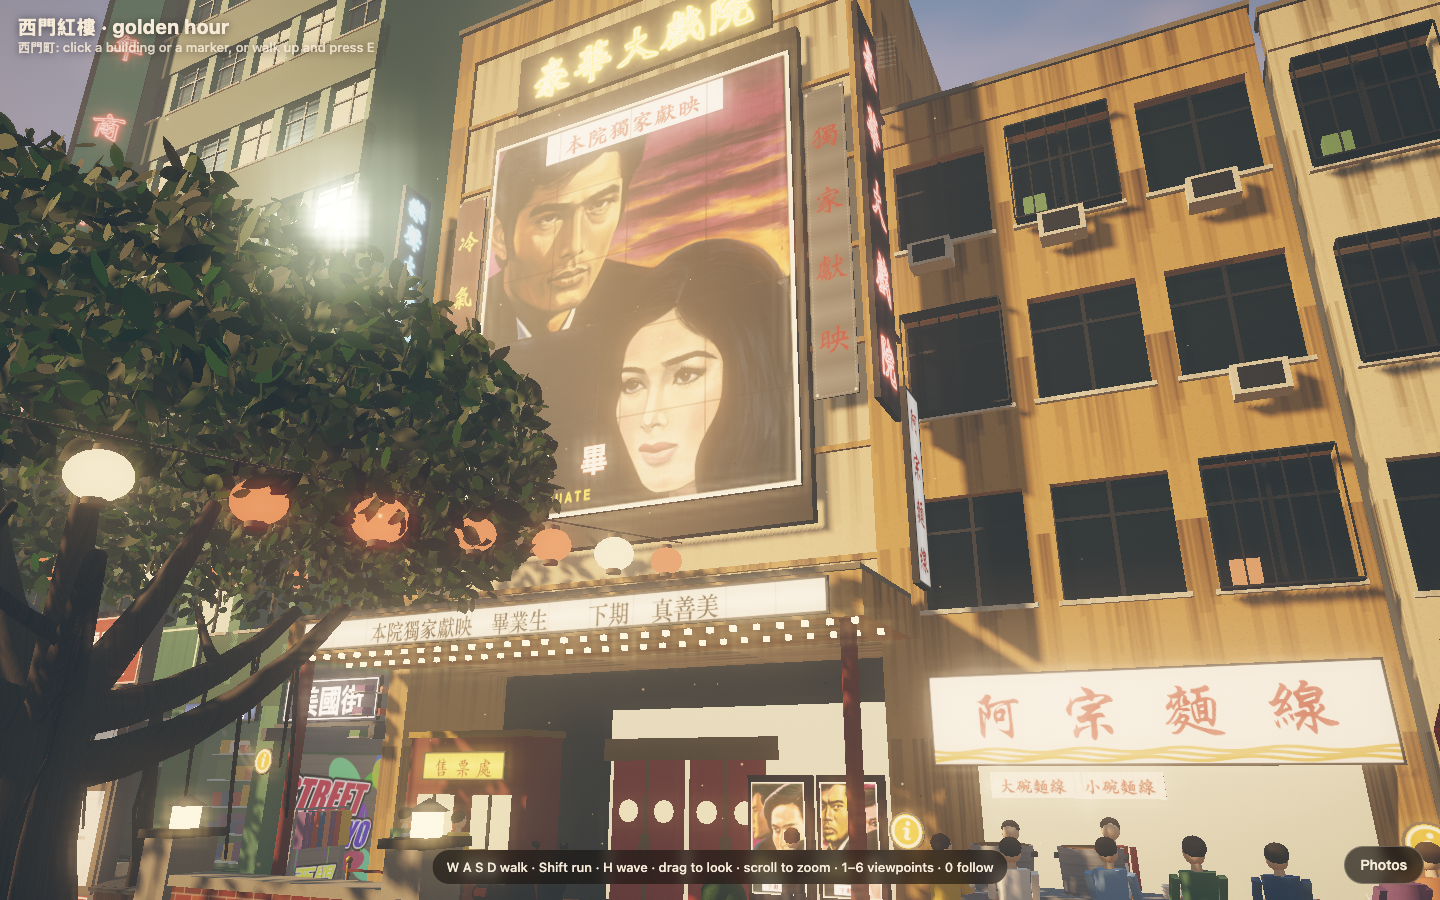
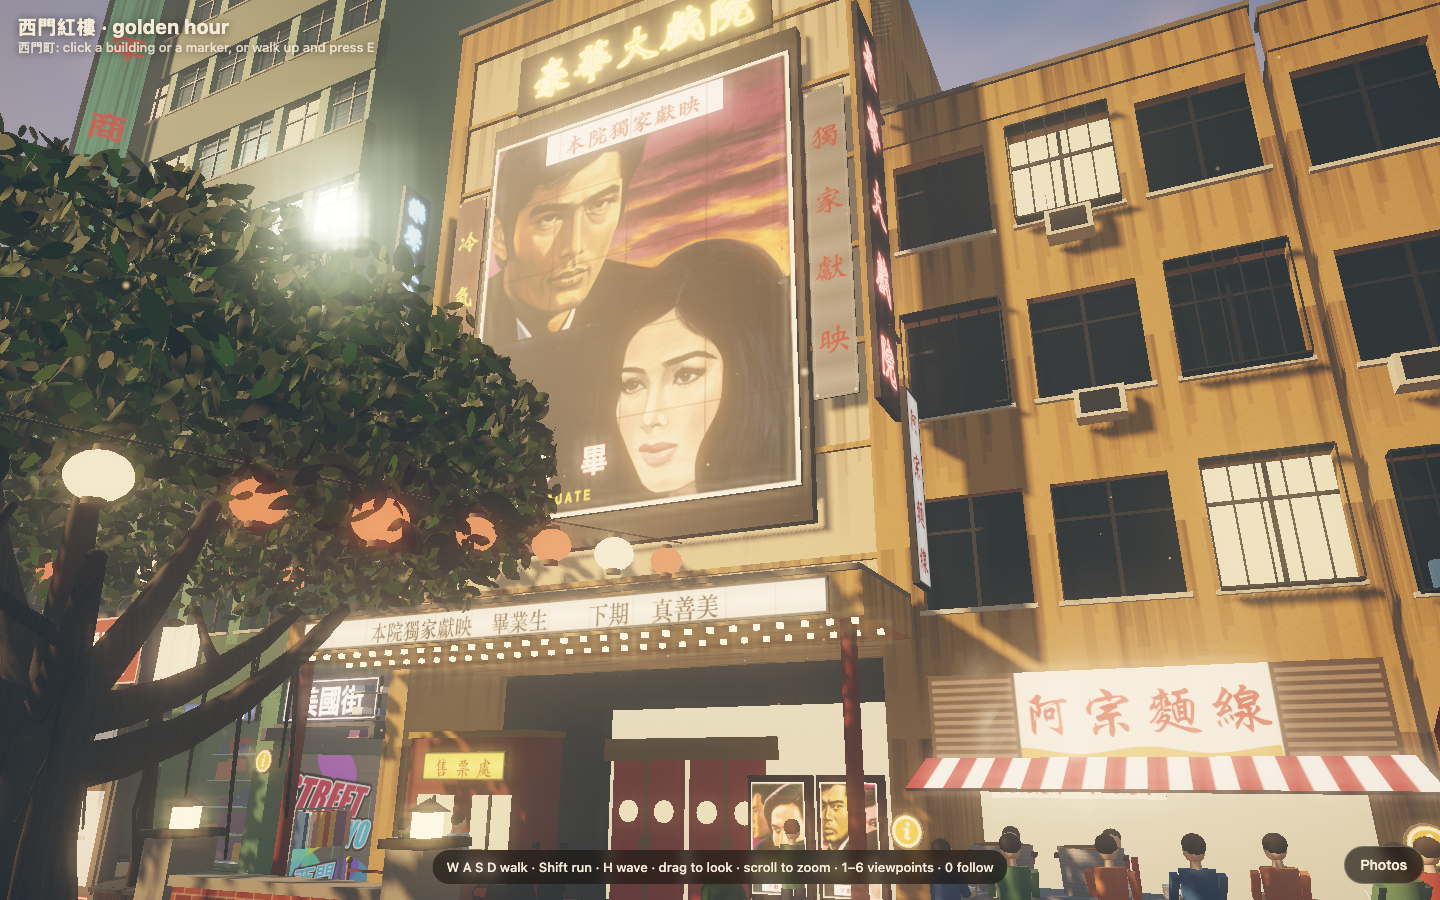
fix(remake): signs redrawn against the reference photos, not their descriptions
蜂大, 南美, 阿宗, 楊桃冰, 天后宮, 萬年 and the 中華商場 banner, upright boards
and 國際牌 tower now follow what the photos show.

diff --git a/remake/landmarks-ximen.js b/remake/landmarks-ximen.js
@@ -267,22 +267,28 @@ function zhonghua() {
     if (rnd() < 0.25) K.bx(a + 0.2, a + 0.9, y + 2.5, y + 2.56, -1.0, -0.9, M.tube); } });
   // signs sticking out from the columns, the dense red, yellow and white of the old photos
   [['小通天', 0], ['訂做皮鞋', 3], ['寶島鐘錶', 5], ['佳佳唱片', 8], ['吳抄手', 10], ['大漢郵幣社', 13], ['致美樓', 15], ['海利電子', 18], ['清真館', 20]].forEach(([t, i], k) => { const c = cols[k % cols.length];
-    K.mesh(sign(t, 0.5, 0.4 * [...t].length + 0.12, { vertical: true, bg: '#f1ece0', fg: k % 3 === 1 ? '#a3221a' : '#1a1a1a', glow: 0.5, border: false }), x0 + i * 2 + 2, G + 1.9 + (k % 2) * 3.0, 1.25, Math.PI / 2); K.bx(x0 + i * 2 + 1.97, x0 + i * 2 + 2.03, G + 2.55 + (k % 2) * 3.0, G + 2.6 + (k % 2) * 3.0, 0.78, 1.25, M.frame); });
+    K.mesh(sign(t, 0.58, 0.52 * [...t].length + 0.2, { vertical: true, bg: '#f1ece0', fg: '#1a1a1a', glow: 0.45, border: false }), x0 + i * 2 + 2, G + 1.9 + (k % 2) * 3.0, 1.25, Math.PI / 2); K.bx(x0 + i * 2 + 1.97, x0 + i * 2 + 2.03, G + 2.55 + (k % 2) * 3.0, G + 2.6 + (k % 2) * 3.0, 0.78, 1.25, M.frame); });
   [['美聲樂器', 1], ['中一皮鞋', 4], ['真北平', 6], ['點心世界', 9], ['松竹唱片', 11], ['徐州啥鍋', 14], ['金門唱片', 16], ['榕江樓', 19]].forEach(([t, i], k) => { const c = cols[(k + 3) % cols.length], lv = (k + 1) % 2;
-    K.mesh(sign(t, 0.5, 0.4 * [...t].length + 0.12, { vertical: true, bg: '#f1ece0', fg: k % 3 === 1 ? '#a3221a' : '#1a1a1a', glow: 0.5, border: false }), x0 + i * 2 + 2, G + 1.9 + lv * 3.0, 1.25, Math.PI / 2); K.bx(x0 + i * 2 + 1.97, x0 + i * 2 + 2.03, G + 2.55 + lv * 3.0, G + 2.6 + lv * 3.0, 0.78, 1.25, M.frame); });
+    K.mesh(sign(t, 0.58, 0.52 * [...t].length + 0.2, { vertical: true, bg: '#f1ece0', fg: '#1a1a1a', glow: 0.45, border: false }), x0 + i * 2 + 2, G + 1.9 + lv * 3.0, 1.25, Math.PI / 2); K.bx(x0 + i * 2 + 1.97, x0 + i * 2 + 2.03, G + 2.55 + lv * 3.0, G + 2.6 + lv * 3.0, 0.78, 1.25, M.frame); });
   K.mesh(sign('中華商場', 7.5, 1.1, { bg: '#f3ecd9', fg: '#b3271e', rtl: true, spread: true, glow: 0.5, oneSide: true }), -2, top + 0.68, 0.84);
-  K.mesh(sign('慶祝臺灣光復節', 9.5, 0.72, { kind: 'cloth', bg: '#b3221a', fg: '#ffe14a', spread: true, glow: 0.35, depth: 0.03, noCast: true }), 4, G + 0.42, 0.87);   // the long cloth banner tied along the walkway rail (Commons photo; its wording there is illegible, this one is of the 1975 光復 parade that passed the market)
+  K.mesh(sign('慶祝臺灣光復節', 11, 0.78, { kind: 'cloth', bg: '#efe9da', fg: '#1a1a1a', font: WEI, spread: true, glow: 0.3, depth: 0.03, noCast: true }), 4, G + 0.42, 0.87);   // the long cloth banner tied along the walkway rail (Commons photo; its wording there is illegible, this one is of the 1975 光復 parade that passed the market)
   // the end walls: a large block numeral under four small characters, as on the 信棟 end wall ("5") in the 1960s night photo; this is the first block
   const endWall = (g, W, H) => { g.fillStyle = '#d6cfbd'; g.fillRect(0, 0, W, H); for (let i = 0; i < 40; i++) { g.fillStyle = `rgba(70,55,35,${0.03 + rnd() * 0.05})`; g.fillRect(rnd() * W, 0, 2 + rnd() * 6, H); } g.fillStyle = '#7a1a14'; g.textAlign = 'center'; g.textBaseline = 'middle';
     g.font = `800 ${H * 0.15}px ${KAI}`; [...'場商華中'].forEach((c, i) => g.fillText(c, W * (0.2 + i * 0.2), H * 0.14)); g.font = `900 ${H * 0.7}px Georgia, "Times New Roman", serif`; g.fillText('1', W / 2, H * 0.62); };
   K.mesh(paint(2.4, 2.4, endWall, { glow: 0.2, light: true }), x1 + 0.06, 6.4, -4.2, Math.PI / 2); K.mesh(paint(2.4, 2.4, endWall, { glow: 0.2, light: true }), x0 - 0.06, 6.4, -4.2, -Math.PI / 2);
-  // the roof line: neon on steel frames. 國際牌 and 黑松汽水 are the two rooftop boards the sources name; two frames stand bare, as after May 1985 when the neon came down
+  // the roof line: neon on steel frames. 國際牌 and 黑松汽水 are the two rooftop boards the sources name; two smaller frames stand bare
   [[-15, null], [-7.5, null], [6, '黑松汽水']].forEach(([x, t]) => { lattice(K, x - 2.4, x + 2.4, top + 0.25, top + 1.9, -1.2, 3); lattice(K, x - 2.4, x + 2.4, top + 0.25, top + 1.9, -2.4, 3);
     if (t) K.mesh(sign(t, 5.2, 2.3, { kind: 'neon', bg: '#141210', fg: '#ff4a3a', font: WEI, spread: true, glow: 1.5 }), x, top + 3.05, -1.2); });
   const tx = 16.5; [-1.7, 1.7].forEach(z => lattice(K, tx - 1.7, tx + 1.7, top + 0.25, top + 8.2, -3 + z, 4));
   [-1.7, 1.7].forEach(dx => { for (let i = 0; i <= 4; i++) K.bx(tx + dx - 0.035, tx + dx + 0.035, top + 0.25 + i * 1.99 - 0.035, top + 0.25 + i * 1.99 + 0.035, -4.7, -1.3, M.steelDk); });
   K.bx(tx - 2.6, tx + 2.6, top + 8.2, top + 8.3, -3.1, -2.9, M.steelDk); K.bx(tx - 2.6, tx + 2.6, top + 11.4, top + 11.5, -3.1, -2.9, M.steelDk); [-2.6, 2.55].forEach(d => K.bx(tx + d, tx + d + 0.08, top + 8.2, top + 11.5, -3.1, -2.9, M.steelDk));
-  for (let i = 1; i < 5; i++) K.bx(tx - 2.6 + i * 1.04, tx - 2.56 + i * 1.04, top + 8.2, top + 11.5, -3.05, -2.95, M.steelDk);                          // the bare bars the letters hung on
+  for (let i = 1; i < 5; i++) K.bx(tx - 2.6 + i * 1.04, tx - 2.56 + i * 1.04, top + 8.2, top + 11.5, -3.05, -2.95, M.steelDk);                          // the bars the letters hung on
+  // the 國際牌 tower as the 1983 colour night photo shows it: red faces, a white ring with the name across it, blue neon bands at the corners, a yellow outline, 牌際國 in white above.
+  // The maker's lightning-bolt mark is left out; the lettering is ours.
+  K.mesh(paint(5.1, 4.2, (g, W, H) => { g.fillStyle = '#0d0d10'; g.fillRect(0, 0, W, H); const y0 = H * 0.2; g.fillStyle = '#d0141c'; g.fillRect(0, y0, W, H - y0); g.fillStyle = '#2f6fe0'; [0, 0.9].forEach(x => { for (let i = 0; i < 12; i++) g.fillRect(W * x, y0 + (H - y0) * (0.04 + i * 0.08), W * 0.1, (H - y0) * 0.04); });
+    g.strokeStyle = '#ffd24a'; g.lineWidth = H * 0.015; g.strokeRect(H * 0.01, y0, W - H * 0.02, H - y0 - H * 0.01); g.shadowColor = '#fff'; g.shadowBlur = H * 0.02; g.strokeStyle = '#fff'; g.lineWidth = H * 0.035; g.beginPath(); g.arc(W / 2, y0 + (H - y0) * 0.5, (H - y0) * 0.36, 0, 7); g.stroke();
+    g.fillStyle = '#d0141c'; g.shadowBlur = 0; g.fillRect(W * 0.14, y0 + (H - y0) * 0.39, W * 0.72, (H - y0) * 0.22); g.shadowBlur = H * 0.02; g.fillStyle = '#fff'; g.textAlign = 'center'; g.textBaseline = 'middle'; g.font = `800 ${(H - y0) * 0.2}px "Helvetica Neue", Arial, sans-serif`; g.fillText('National', W / 2, y0 + (H - y0) * 0.51);
+    g.font = `800 ${H * 0.14}px ${FONT}`; [...'牌際國'].forEach((c, i) => g.fillText(c, W * (0.24 + i * 0.26), H * 0.1)); }, { glow: 1.6 }), tx, top + 10.3, -2.86);
   // the footbridge to the second floor at the north end, with its stair down to the pavement
   const bx = -19.5; KB.bx(bx - 1.2, bx + 1.2, G - 0.3, G, 0.78, 5.2, M.concDk); [-1.2, 1.1].forEach(d => { KB.bx(bx + d, bx + d + 0.1, G, G + 0.95, 0.78, 5.2, ZC); }); [1.6, 4.9].forEach(z => KB.bx(bx - 0.2, bx + 0.2, 0, G - 0.3, z - 0.2, z + 0.2, ZC));
   for (let i = 0; i < 16; i++) { const y = G - 0.3 - (i + 1) * 0.181, xs = bx + 1.2 + i * 0.3; KB.bx(xs, xs + 0.32, Math.max(0, y - 0.1), y + 0.19, 3.0, 5.2, M.concDk); }
@@ -299,17 +305,17 @@ function wannian() {
   // ground floor: green piers, the lit arcade of small stalls behind glass, the 峨嵋門 doors under a deep canopy
   K.bx(x0, x1, 0, G, -D, -3.2, M.dark); [x0, -2.4, 2.1, x1 - 0.5].forEach(x => K.bx(x, x + 0.5, 0, G, -3.2, 0, M.green)); [x0 + 0.02, x1 - 0.3].forEach(x => K.bx(x, x + 0.28, 0, G, -D, -3.2, M.green));
   K.bx(x0, x1, G - 0.5, G, -3.2, 0, M.greenDk); K.bx(-2.6, 2.8, 3.1, 3.4, -0.2, 2.1, M.greenDk); K.bx(-2.6, 2.8, 3.4, 3.48, -0.2, 2.1, M.concLt);
-  K.mesh(sign('萬年商業大樓', 5.2, 0.8, { kind: 'box', font: KAI, bg: '#f3ecd9', fg: '#1f5a3a', spread: true, glow: 0.75, oneSide: true }), 0.1, 3.86, 2.14);
+  K.mesh(sign('萬年商業大樓', 5.2, 0.8, { kind: 'box', font: FONT, weight: 900, bg: '#efe6cf', fg: '#1a1a1a', spread: true, glow: 0.75, oneSide: true }), 0.1, 3.86, 2.14);
   K.mesh(sign('峨嵋門', 1.9, 0.5, { bg: '#1f5a3a', fg: '#ffe9a8', glow: 0.8, oneSide: true }), 0.1, 2.8, -0.15);
   K.bx(-1.9, 2.1, 0, 2.5, -0.5, -0.44, M.glassBlue); [-1.9, -0.9, 0.1, 1.1, 2.06].forEach(x => K.bx(x - 0.03, x + 0.03, 0, 2.5, -0.44, -0.38, M.steel)); K.bx(-1.9, 2.1, 2.5, 2.56, -0.5, -0.36, M.steel);
   [-0.4, 0.6].forEach(x => K.bx(x - 0.02, x + 0.02, 0.9, 1.3, -0.38, -0.3, M.steel)); K.bx(-1.8, 2.0, 0.2, 2.4, -3.18, -3.14, M.shopLit);
   [[-5.0, -2.4], [2.6, 5.0]].forEach(([a, b]) => { K.bx(a, b, 0.5, 3.4, -0.6, -0.55, M.pane); K.bx(a, b, 0, 0.5, -0.7, -0.1, M.greenDk); K.bx(a + 0.05, b - 0.05, 0.5, 3.4, -3.18, -3.14, M.shopLit);
     for (let s = 0; s < 5; s++) { const y = 0.55 + s * 0.55; K.bx(a + 0.05, b - 0.05, y, y + 0.03, -1.5, -0.75, M.jar); for (let k = 0; k < 7; k++) { const gx = a + 0.1 + k * (b - a - 0.2) / 7; K.bx(gx, gx + 0.26, y + 0.03, y + rr(0.2, 0.48), -1.4, -0.9, pick(CLOTH)); } } });     // model-kit boxes stacked to the ceiling
   K.mesh(sign('豪華鐘錶公司', 2.3, 0.42, { kind: 'box', bg: '#f1ead6', fg: '#1a1a1a', spread: true, glow: 0.8, oneSide: true }), -3.7, 3.62, 0.06); K.mesh(sign('萬年冰宮', 2.3, 0.42, { kind: 'box', bg: '#1f4f9c', fg: '#ffffff', spread: true, glow: 0.8, oneSide: true }), 3.8, 3.62, 0.06);
-  K.mesh(sign('萬年', 5.6, 1.5, { bg: '#1f5a3a', fg: '#ffe9a8', glow: 0.7, oneSide: true }), 0, G + 0.62, 0.08);
+  K.mesh(sign('萬年', 5.6, 1.5, { font: FONT, weight: 900, bg: '#efe6cf', fg: '#1a1a1a', border: false, glow: 0.5, oneSide: true }), 0, G + 0.62, 0.08);
   // the corner fin: a three-sided neon tower, name running down nine floors
   const fx = x0 - 0.05; K.box(1.5, top - G - 1, 1.5, M.greenDk, fx, (top + G + 1) / 2, 0.15, Math.PI / 4);
-  [[-Math.PI / 4, -0.62, 0.72], [Math.PI / 4, 0.62, 0.72]].forEach(([ry, dx, dz]) => K.mesh(sign('萬年商業大樓', 1.34, 19, { vertical: true, kind: 'neon', font: WEI, bg: '#1d4a39', fg: '#ff4a3a', glow: 1.7, oneSide: true, ppm: 52 }), fx + dx, G + 15.6, 0.15 + dz, ry));
+  [[-Math.PI / 4, -0.62, 0.72], [Math.PI / 4, 0.62, 0.72]].forEach(([ry, dx, dz]) => K.mesh(sign('萬年商業大樓', 1.34, 19, { vertical: true, font: FONT, weight: 900, bg: '#3f8a66', fg: '#e3261c', border: false, glow: 1.1, oneSide: true, ppm: 52 }), fx + dx, G + 15.6, 0.15 + dz, ry));
   K.mesh(paint(4.4, 2.4, (g, W, H) => { g.fillStyle = '#1d4a39'; g.fillRect(0, 0, W, H); g.fillStyle = '#16181c'; g.beginPath(); g.ellipse(W / 2, H / 2, W * 0.47, H * 0.44, 0, 0, 7); g.fill(); g.textAlign = 'center'; g.textBaseline = 'middle'; g.font = `800 ${H * 0.42}px ${KAI}`;
     [['年', 0.29], ['萬', 0.71]].forEach(([c, x]) => { g.strokeStyle = '#fff'; g.lineWidth = H * 0.035; g.beginPath(); g.arc(W * x, H / 2, H * 0.32, 0, 7); g.stroke(); g.fillStyle = '#fff'; g.fillText(c, W * x, H * 0.52); }); }, { glow: 1.2, oneSide: true }), 1.2, top + 2.5, -0.3);   // the dark oval over the corner sign: 年 and 萬 in two white rings, read right to left (2020 Commons photo) lattice(K, -1.0, 3.4, top + 1.1, top + 3.7, -0.5, 2);
   return K.done();
@@ -358,8 +364,8 @@ function tianhou() {
   [-2.45, -1.15, 1.15, 2.45].forEach(x => { K.cyl(0.2, 0.2, 4.3, M.red, x, 2.45, 0.2, 12); K.cyl(0.26, 0.3, 0.32, M.stone, x, 0.16, 0.2, 12); K.bx(x - 0.26, x + 0.26, 4.5, 4.7, -0.06, 0.46, M.gold); });
   K.bx(-2.75, 2.75, 3.95, 4.3, 0.05, 0.35, M.tileGreen); K.bx(-2.75, 2.75, 4.3, 4.42, 0.02, 0.38, M.gold); K.bx(-2.75, 2.75, 4.7, 5.0, 0, 0.4, M.redDk); K.bx(-1.3, 1.3, 5.0, 5.9, 0.02, 0.38, M.redDk);
   for (let i = 0; i < 9; i++) K.bx(-2.6 + i * 0.62, -2.6 + i * 0.62 + 0.3, 4.02, 4.24, 0.35, 0.37, i % 2 ? M.gold : M.blue);
-  K.mesh(sign('台北天后宮', 2.4, 0.72, { bg: '#8f3a2c', fg: '#ffffff', font: KAI, spread: true, border: false, glow: 0.7, oneSide: true }), 0, 5.42, 0.42);
-  [-1.15, 1.15].forEach(x => K.mesh(sign('台北天后宮', 0.34, 2.3, { vertical: true, kind: 'box', font: KAI, bg: '#f2c832', fg: '#b3221a', glow: 0.7, oneSide: true, depth: 0.05 }), x, 2.6, 0.42));   // the two yellow uprights with the name in red, one each side (2025 Commons photo)
+  K.mesh(sign('台北天后宮', 2.4, 0.72, { bg: '#6e1f1c', fg: '#ffffff', font: XING, spread: true, border: false, glow: 0.7, oneSide: true }), 0, 5.42, 0.42);
+  [x0 - 0.08, x1 + 0.08].forEach(x => { K.mesh(sign('台北天后宮', 0.62, 4.4, { vertical: true, kind: 'box', font: KAI, bg: '#f2c832', fg: '#c21f1a', glow: 0.8 }), x, 7.6, 0.55, Math.PI / 2); [5.9, 9.3].forEach(y => K.bx(x - 0.03, x + 0.03, y, y + 0.05, 0, 0.3, M.frame)); });   // the two tall yellow signs with the name in red, hung off the upper floors at each side (looked at the 2025 photo)
   // swallow-tail roofs: a high one over the middle bay, a lower one each side
   const roof = (cx, rw, yE, rise, up) => { const zF = 1.25, zB = -1.5, zm = -0.1, a = Math.atan2(rise, zF - zm), L = Math.hypot(rise, zF - zm), b = Math.atan2(rise, zm - zB), Lb = Math.hypot(rise, zm - zB);
     K.box(rw, 0.14, L, M.tile, cx, yE + rise / 2, (zF + zm) / 2, 0, a); K.box(rw, 0.14, Lb, M.tile, cx, yE + rise / 2, (zB + zm) / 2, 0, -b);
@@ -381,7 +387,8 @@ function tianhou() {
 // ══ 5. 成都楊桃冰: white and green, the amber jars on an open counter ═════════════════════════════════════
 function starfruit() {
   const K = Kit('chengdu-starfruit'), w = 4.5, S = shophouse(K, w, 2, M.white, { ground: 3.5, bays: 2, depth: 9 }), x0 = S.x0, x1 = S.x1;
-  K.bx(x0, x1, 3.5, 3.62, -0.05, 0.1, M.tileGreen); K.mesh(sign('成都楊桃冰', 4.1, 0.95, { kind: 'box', font: XING, bg: '#f6f3ea', fg: '#0f5a34', sub: '創於1966年', subFont: KAI, subFg: '#b3221a', glow: 0.7, oneSide: true }), 0, 2.95, 0.1);
+  K.bx(x0, x1, 3.5, 3.62, -0.05, 0.1, M.tileGreen); K.mesh(sign('成都楊桃冰', 4.3, 1.15, { kind: 'box', font: XING, bg: '#f6f3ea', fg: '#1f7a4a', spread: true, sub: '創於1966年', subFont: XING, subFg: '#d3214a', glow: 0.7, oneSide: true }), 0, 2.98, 0.1);
+  K.mesh(sign('成都楊桃冰', 3.4, 0.36, { bg: '#a3221a', fg: '#e8c04a', rtl: true, spread: true, border: false, glow: 0.6, oneSide: true }), 0.3, 2.72, -2.5);
   K.mesh(paint(4.3, 1.5, stripes('#f6f3ea', '#2f8a5a', 12), { glow: 0.3, depth: 0.04, ppm: 60 }), 0, 2.35, 0.8).rotation.x = -Math.PI / 2 + 0.28;
   K.bx(x0 + 0.3, x1 - 0.3, 0.3, 3.0, -2.58, -2.54, M.shopLit);
   K.mesh(paint(1.5, 1.1, (g, W, H) => { g.fillStyle = '#fbf8ee'; g.fillRect(0, 0, W, H); g.strokeStyle = '#2f8a5a'; g.lineWidth = 4; g.strokeRect(4, 4, W - 8, H - 8);
@@ -402,8 +409,10 @@ function fongda() {
   K.bx(x0, x1, top, top + 0.8, -0.3, 0.05, M.cream); K.bx(x0, x1, top, top + 0.15, -10, -0.3, M.concDk); waterTank(K, 1.5, top + 0.15, -4);
   K.bx(x0, x1, 0, G, -10, -3.0, M.dark); [x0, mid - 0.22, x1 - 0.45].forEach(x => K.bx(x, x + 0.45, 0, G, -0.45, 0, M.stone)); K.bx(x0, x1, 3.0, G, -0.45, 0, M.cream); K.bx(mid - 0.08, mid + 0.08, 0, 3.0, -3, -0.45, M.concDk);
   [x0, x1 - 0.2].forEach(x => K.bx(x, x + 0.2, 0, G, -3, -0.45, M.concDk)); K.bx(x0, x1, 2.95, 3.0, -3, -0.45, M.concLt); [-1.5, 2.0].forEach(x => K.bx(x - 0.6, x + 0.6, 2.88, 2.94, -1.6, -1.5, M.tube));
-  K.mesh(sign('蜂大咖啡', 3.5, 0.82, { kind: 'box', font: FONT, weight: 900, bg: '#f4f1e8', fg: '#141414', sub: '創立於西元1956年　咖啡器材專業經營', glow: 0.8, oneSide: true }), -1.5, 3.36, 0.06); K.mesh(sign('南美咖啡', 2.6, 0.82, { font: XING, bg: '#4a1f1a', fg: '#f3e6c8', border: false, glow: 0.7, oneSide: true }), 2.0, 3.36, 0.06);
-  K.mesh(sign('蜂大咖啡', 0.5, 2.6, { vertical: true, kind: 'box', font: FONT, weight: 900, bg: '#f4f1e8', fg: '#141414', glow: 0.9 }), x0 + 0.5, 6.2, 0.85, Math.PI / 2); K.mesh(sign('南美咖啡', 0.5, 2.2, { vertical: true, font: XING, bg: '#4a1f1a', fg: '#f3e6c8', border: false, glow: 0.6 }), x1 - 0.4, 5.6, 0.75, Math.PI / 2);
+  K.mesh(paint(3.9, 0.82, (g, W, H) => { g.fillStyle = '#f4f1e8'; g.fillRect(0, 0, W, H); g.fillStyle = '#1a1a1a'; [0, 0.89].forEach(x => { for (let i = 0; i < 7; i++) g.fillRect(W * x, H * (0.06 + i * 0.13), W * 0.11, H * 0.07); });
+    g.beginPath(); g.arc(W * 0.2, H * 0.44, H * 0.26, 0, 7); g.fill(); g.strokeStyle = '#f4f1e8'; g.lineWidth = H * 0.03; g.beginPath(); for (let i = 0; i < 7; i++) { const a = i / 6 * 6.2832; g.lineTo(W * 0.2 + Math.cos(a) * H * 0.15, H * 0.44 + Math.sin(a) * H * 0.15); } g.stroke();
+    g.textAlign = 'center'; g.textBaseline = 'middle'; g.font = `900 ${H * 0.46}px ${FONT}`; [...'蜂大咖啡'].forEach((c, i) => g.fillText(c, W * (0.34 + i * 0.145), H * 0.42)); g.font = `600 ${H * 0.13}px ${FONT}`; g.fillText('創立於西元1956年　咖啡器材專業經營', W * 0.56, H * 0.83); }, { glow: 0.35, oneSide: true, light: true }), -1.5, 3.36, 0.06); K.mesh(sign('南美咖啡', 2.6, 0.82, { font: WEI, bg: '#3a1a1e', fg: '#f1dfb4', spread: true, glow: 0.7, oneSide: true }), 2.0, 3.36, 0.06);
+  K.mesh(sign('蜂大咖啡', 0.55, 5.2, { vertical: true, kind: 'box', font: FONT, weight: 900, bg: '#f4f1e8', fg: '#141414', glow: 0.6 }), mid, 6.6, 0.85, Math.PI / 2); K.mesh(sign('南美咖啡', 0.5, 2.2, { vertical: true, font: WEI, bg: '#3a1a1e', fg: '#f1dfb4', glow: 0.6 }), x1 - 0.4, 5.6, 0.75, Math.PI / 2);
   // 蜂大: the counter at the door with big glass jars of biscuits, the shelves and bean bins behind, the roaster deep inside
   K.bx(x0 + 0.5, mid - 0.4, 0, 0.95, -1.15, -0.5, M.woodDk); K.bx(x0 + 0.45, mid - 0.35, 0.95, 1.0, -1.2, -0.45, M.wood); for (let i = 0; i < 7; i++) jar(K, x0 + 0.78 + i * 0.42, 1.0, -0.82, 0.17, 0.46, M.biscuit, M.red);
   K.bx(x0 + 0.3, mid - 0.2, 0.2, 2.8, -2.98, -2.94, M.shopLit); for (let s = 0; s < 4; s++) { const y = 0.9 + s * 0.48; K.bx(x0 + 0.3, mid - 0.2, y, y + 0.04, -2.9, -2.55, M.woodDk); for (let k = 0; k < 9; k++) { const gx = x0 + 0.4 + k * 0.38; if (rnd() < 0.85) K.cyl(0.11, 0.11, rr(0.2, 0.36), pick([M.biscuit, M.woodDk, M.red, M.jar]), gx, y + 0.2, -2.72, 8); } }
@@ -419,8 +428,10 @@ function fongda() {
 // ══ 7. 阿宗麵線: no seats, steel pots at the front, people eating on their feet ═══════════════════════════
 function aychung() {
   const K = Kit('ay-chung'), w = 6, S = shophouse(K, w, 3, M.ochre, { ground: 3.8, bays: 3, depth: 9 }), x0 = S.x0, x1 = S.x1;
-  K.mesh(paint(5.6, 1.25, (g, W, H) => { g.fillStyle = '#f6f3ea'; g.fillRect(0, 0, W, H); g.strokeStyle = '#d9a53a'; g.lineWidth = H * 0.035; for (let k = 0; k < 3; k++) { g.beginPath(); for (let x = 0; x <= W; x += 6) g.lineTo(x, H * (0.84 + k * 0.045) + Math.sin(x / W * 30 + k) * H * 0.02); g.stroke(); }   // white fascia, the name in red brush characters, gold noodle waves along the bottom (2020 Commons photo)
-    g.fillStyle = '#c21f1a'; g.textAlign = 'center'; g.textBaseline = 'middle'; g.font = `800 ${H * 0.62}px ${XING}`; [...'阿宗麵線'].forEach((c, i) => g.fillText(c, W * (0.17 + i * 0.22), H * 0.42)); g.strokeStyle = '#2b2b30'; g.lineWidth = H * 0.05; g.strokeRect(0, 0, W, H); }, { glow: 0.4, oneSide: true, light: true }), 0, 3.1, 0.1);
+  K.mesh(paint(5.6, 1.25, (g, W, H) => { g.fillStyle = '#5a4636'; g.fillRect(0, 0, W, H); g.fillStyle = '#8a7460'; for (let y = H * 0.06; y < H * 0.94; y += H * 0.09) { g.fillRect(W * 0.01, y, W * 0.2, H * 0.045); g.fillRect(W * 0.79, y, W * 0.2, H * 0.045); }   // the brown louvre grilles each side (looked at the 2020 photo)
+    g.fillStyle = '#f6f3ea'; g.fillRect(W * 0.22, 0, W * 0.56, H); g.save(); g.beginPath(); g.rect(W * 0.22, 0, W * 0.56, H); g.clip(); [['#2f8a5a', 0.9], ['#d9a53a', 0.84]].forEach(([c, y0]) => { g.fillStyle = c; g.beginPath(); g.moveTo(W * 0.22, H); for (let x = W * 0.22; x <= W * 0.78; x += 5) g.lineTo(x, H * y0 + Math.sin(x / W * 22) * H * 0.035); g.lineTo(W * 0.78, H); g.fill(); }); g.restore();
+    g.fillStyle = '#d3211c'; g.textAlign = 'center'; g.textBaseline = 'middle'; g.font = `800 ${H * 0.56}px ${XING}`; [...'阿宗麵線'].forEach((c, i) => g.fillText(c, W * (0.29 + i * 0.14), H * 0.42)); }, { glow: 0.4, oneSide: true, light: true }), 0, 3.1, 0.1);
+  K.mesh(paint(5.8, 1.3, stripes('#f6f3ea', '#c8323a', 24), { glow: 0.3, depth: 0.04, ppm: 60 }), 0, 2.38, 0.75).rotation.x = -Math.PI / 2 + 0.3;
   K.mesh(sign('阿宗麵線', 0.7, 3.0, { vertical: true, kind: 'box', font: XING, bg: '#f6f3ea', fg: '#c21f1a', glow: 1.0 }), x0 + 0.4, 6.4, 0.9, Math.PI / 2);
   K.bx(x0 + 0.3, x1 - 0.3, 0.2, 3.3, -2.58, -2.54, M.shopLit); [-1.5, 1.5].forEach(x => K.bx(x - 0.7, x + 0.7, 3.38, 3.44, -1.2, -1.1, M.tube));
   K.mesh(sign('大碗麵線　小碗麵線', 2.6, 0.4, { bg: '#f3ecd9', fg: '#b3271e', glow: 0.7, oneSide: true, border: false }), -1.2, 2.2, -2.5);
@@ -601,7 +612,7 @@ if (window.PLACES) {
   ev('drag-festival-2025', { position: [-12.6, 13.6], rotation: 0.3 });                        // beside the Red House
   ev('jay-chou-signing-2004', { position: [-18.6, 22], rotation: L });
   ev('lantern-festival-2017', { position: [-17.6, 45.2], rotation: L - 0.25 });                // on the 中華路 side, where the lanterns ran
-  ev('backstreet-fest-2020', { position: [16.8, 33.2], rotation: -L });                        // toward 美國街 and the back streets
+  ev('backstreet-fest-2020', { position: [15.2, 38.6], rotation: -L });                        // toward 美國街 and the back streets
   ev('golden-horse-outdoor-2018', { position: [16.5, 47.5], rotation: -L });                   // on the 電影街 side
   ev('rainbow-crossing-2019', { position: [-6.6, 50.6], rotation: Math.PI + 0.3 });            // at Exit 6
   ev('mayday-5th-anniv-2004', { position: [4.6, 55.6], rotation: Math.PI - 0.15 });            // at the mouth of the car-free streets

diff --git a/docs/signage/sources.md b/docs/signage/sources.md
@@ -70,6 +70,20 @@ CJ, 2026-11-21: 「還有這些招牌都怪怪的請出搜尋真實招牌 海報
 | 捷運6號出口 | 西門 Ximen / 出口 6 Exit, white on Metro blue | none opened | inferred |
 | Fill-in shophouses | 世運食品, 美觀園, 老天祿, 雪王冰淇淋, 大車輪, 楊記冰店, 鴨肉扁, 謝謝魷魚羹, 金園排骨, 天天利, 張記排骨酥 | none opened this session | inferred (old Ximending shops from general knowledge; not at their real addresses) |
 
+## Second pass: matched by eye
+
+CJ, 2026-11-21: 「很多沒有按照真實招牌」. The first pass drew the signs from written descriptions of the photos. In this pass S1, S3, S4, S14, S16, S20, S21, S23 and S25 were opened and looked at, and these signs were redrawn to what the photos show:
+
+- 蜂大咖啡: white fascia with black striped blocks at both ends, a round mark at the left, heavy black block characters, the small 1956 line; a tall white upright between the two shops (S20).
+- 南美咖啡: cream heavy brush characters on dark maroon with a thin cream rule (S20).
+- 阿宗麵線: brown louvre grilles each side of the white board, a gold and green wave under the red brush name, a red and white striped awning (S21).
+- 成都楊桃冰: wide-spaced green brush characters with the red 創於1966年 under them; the red strip with gold characters read right to left inside (S23).
+- 台北天后宮: white brush name on dark red; the two tall yellow signs hang off the upper floors at each side, not on the door posts (S25).
+- 萬年: the name down the building is solid red block characters, not brush or tube; the band over the door is cream with black characters (S14).
+- 中華商場: the walkway banner is light cloth with dark characters; the upright boards are tall white boards with black characters; the 國際牌 tower is back on its frame, red with a white ring and the name across it, blue bands at the corners (S1, S3, S4). Its lightning-bolt mark is left out.
+
+Still different from the photos, because the building and not the sign would have to change: 蜂大's red-brick front and 南美's white tile, the three-storey temple front of 天后宮 with its round emblem and six lanterns, 獅子林's gold panels and rounded corner tower with the crown sign, and 萬年's green-and-white ribs with the name on the flat front and tenant signs down both sides.
+
 ## Poster pictures
 
 CJ, 2026-11-21: 「需要圖的話也可以去midjourney做」, then "You pick". The painted pictures on the 豪華 billboard, the two poster cases, the three 獅子林 posters and the 來來 poster are Midjourney images made for this scene, in `asset/textures/posters/` (`billboard`, `case-a`, `case-b`, `kids`, `army`, `denim`, `lailai`). They show generic faces, no real actor and no lettering; the titles on top are still drawn in code. Each prompt asked for a hand-painted Taiwanese cinema poster of the period; the pictures are in period style, not copies of the real posters of those films. Jobs: `0b22f3d5` (images 2, 0, 3), `ab6bc0bf` (2), `7fccaf54` (0), `b1074ce2` (2), `bc9efd63` (2).
